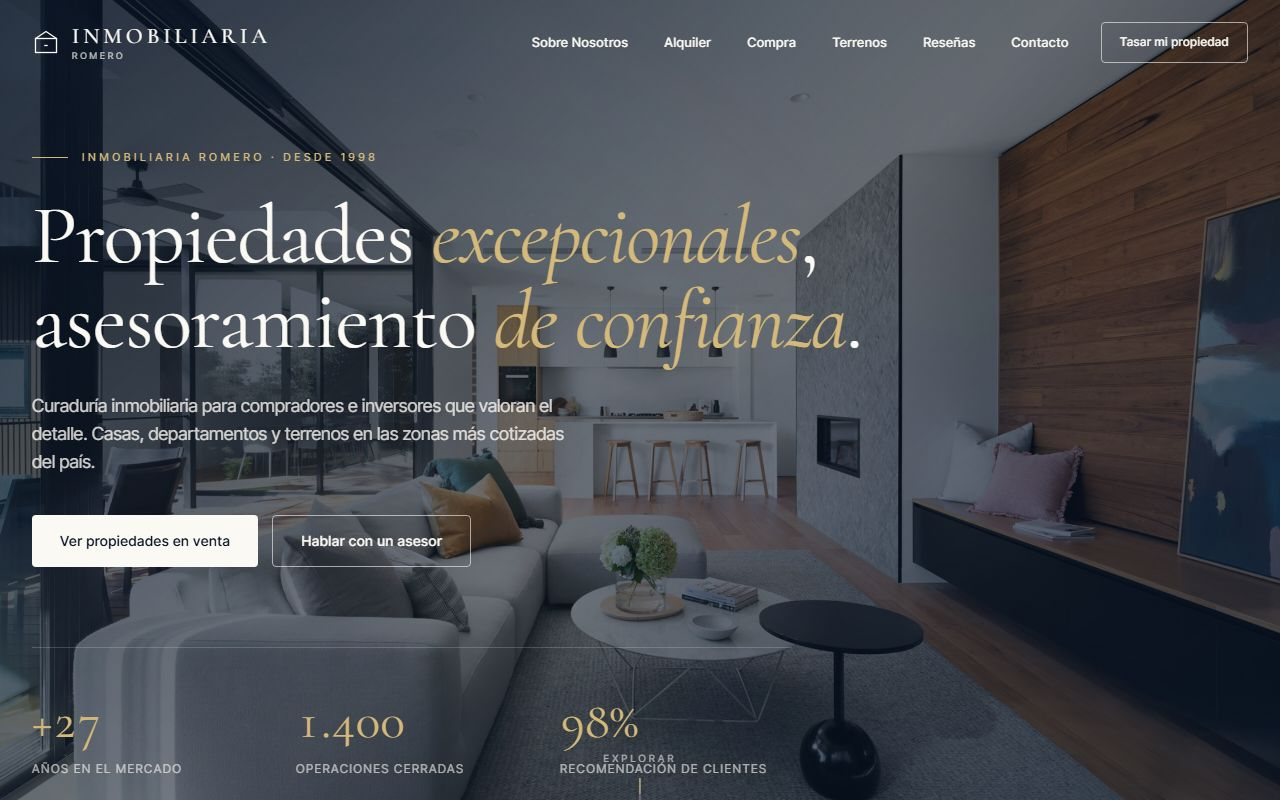
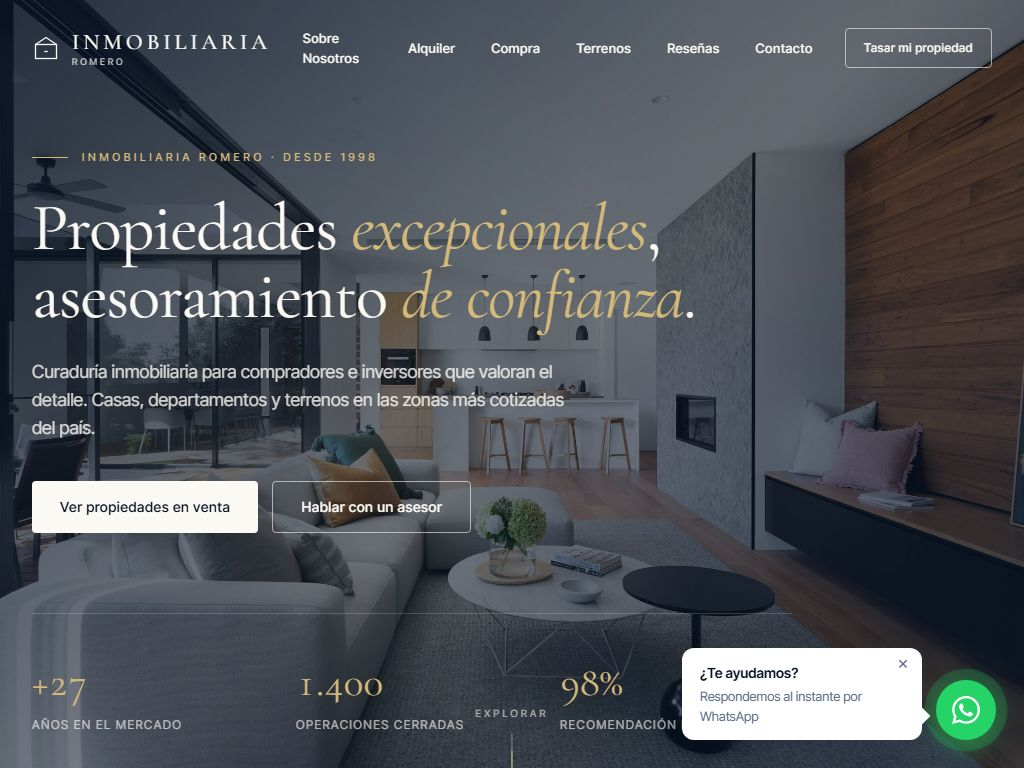
fix: mejorar previews de proyectos con screenshots responsivos
- Clínica Sonrisas: screenshot mobile (390px) + mockup tipo phone
- Inmobiliaria Romero: screenshot tablet (1024px) para mejor encuadre

diff --git a/components/Projects.tsx b/components/Projects.tsx
@@ -46,19 +46,14 @@ export default function Projects() {
 
           {/* 2 tall */}
           <a href="https://clinicasonrisas.vercel.app/" target="_blank" rel="noopener noreferrer" className="proj-card size-tall">
-            <div className="preview" style={{ background: "#f0f8ff" }}>
-              <div className="mock-browser">
-                <div className="bar">
-                  <span className="dot" /><span className="dot" /><span className="dot" />
-                </div>
-                <div className="body" style={{ position: "relative", padding: 0, overflow: "hidden" }}>
-                  <Image
-                    src="/images/projects/sonrisas.jpg"
-                    alt="Clínica Sonrisas"
-                    fill
-                    style={{ objectFit: "cover", objectPosition: "top" }}
-                  />
-                </div>
+            <div className="preview" style={{ background: "#e8f4f8" }}>
+              <div className="mock-phone">
+                <Image
+                  src="/images/projects/sonrisas.jpg"
+                  alt="Clínica Sonrisas"
+                  fill
+                  style={{ objectFit: "cover", objectPosition: "top" }}
+                />
               </div>
             </div>
             <div className="meta">
